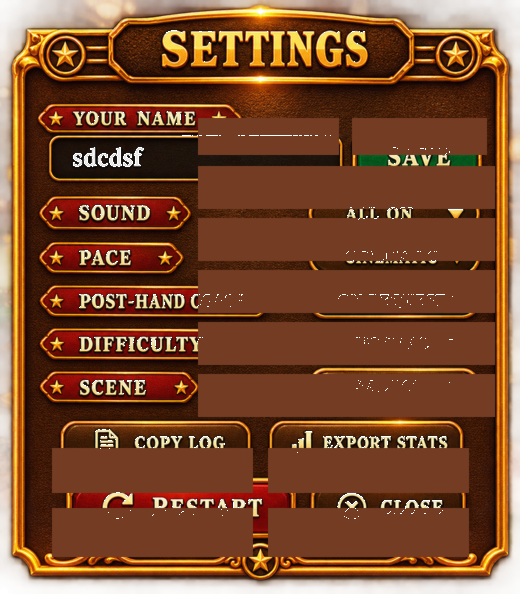
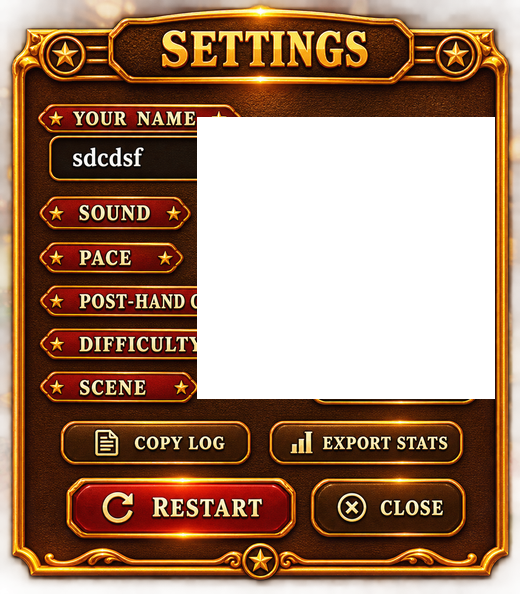
Fix settings overlay double-draw from opaque shell fill
Rebuild settings-panel art with true alpha cutouts in the right-column
control slots (from settings-panel-full.png) and restore a proper @2x
asset. Tone down the name field chrome and style the settings sheet
scrollbar so live controls no longer stack on brown baked placeholders.

diff --git a/Web/CinematicPoker.Web/wwwroot/css/app.css b/Web/CinematicPoker.Web/wwwroot/css/app.css
@@ -2931,6 +2931,21 @@ html.scene-street.resume-play .boot-screen {
     max-width: none;
     max-height: none;
     -webkit-overflow-scrolling: touch;
+    scrollbar-width: thin;
+    scrollbar-color: rgba(216, 178, 92, 0.45) transparent;
+}
+
+.settings-art-sheet::-webkit-scrollbar {
+    width: 6px;
+}
+
+.settings-art-sheet::-webkit-scrollbar-thumb {
+    background: rgba(216, 178, 92, 0.4);
+    border-radius: 999px;
+}
+
+.settings-art-sheet::-webkit-scrollbar-track {
+    background: transparent;
 }
 
 .settings-art-sheet.settings-box {
@@ -3136,11 +3151,12 @@ html.scene-street.resume-play .boot-screen {
 }
 
 .settings-art-sheet .settings-name-controls .name-input {
-    background: rgba(8, 5, 3, 0.82);
-    border: 1px solid rgba(216, 178, 92, 0.45);
-    border-radius: 10px;
+    background: rgba(8, 5, 3, 0.72);
+    border: 1px solid rgba(216, 178, 92, 0.5);
+    border-radius: 8px;
     color: var(--text);
     font-size: 14px;
+    box-shadow: none;
 }
 
 .settings-art-sheet .settings-save {

diff --git a/Web/CinematicPoker.Web/wwwroot/index.html b/Web/CinematicPoker.Web/wwwroot/index.html
@@ -25,7 +25,7 @@
          vendored in fonts/ so the game needs no network at all — the
          @font-face declarations live at the top of css/app.css. -->
     <link rel="preload" href="fonts/rye-latin.woff2" as="font" type="font/woff2" crossorigin />
-    <link rel="stylesheet" href="css/app.css?v=84" />
+    <link rel="stylesheet" href="css/app.css?v=86" />
     <script>
         // iOS reports the landscape notch inset on both sides. The housing
         // is only on one edge: window.orientation 90 puts it on the left,

diff --git a/tools/build_settings_panel_shell.py b/tools/build_settings_panel_shell.py
@@ -1,0 +1,64 @@
+#!/usr/bin/env python3
+"""Build settings-panel.png shell from the full mock (labels + footer art only).
+
+Control slots on the right are punched transparent so live HTML inputs and
+dropdown pills are not doubled over baked art.
+"""
+from __future__ import annotations
+
+import sys
+from pathlib import Path
+
+from PIL import Image
+
+ROOT = Path(__file__).resolve().parents[1]
+IMG = ROOT / "Web/CinematicPoker.Web/wwwroot/img"
+FULL = IMG / "settings-panel-full.png"
+
+# Normalized (x0, y0, x1, y1) — right-column interactive rows only; footer stays painted.
+CUTOUTS = (
+    (0.380, 0.198, 0.952, 0.292),
+    (0.380, 0.292, 0.952, 0.368),
+    (0.380, 0.368, 0.952, 0.444),
+    (0.380, 0.444, 0.952, 0.520),
+    (0.380, 0.520, 0.952, 0.596),
+    (0.380, 0.596, 0.952, 0.672),
+)
+
+
+def punch_shell(width: int) -> Image.Image:
+    height = round(width * 594 / 520)
+    base = Image.open(FULL).convert("RGBA")
+    im = base.resize((width, height), Image.Resampling.LANCZOS)
+    pix = im.load()
+    w, h = im.size
+    for x0, y0, x1, y1 in CUTOUTS:
+        ix0, iy0 = int(x0 * w), int(y0 * h)
+        ix1, iy1 = int(x1 * w), int(y1 * h)
+        for y in range(iy0, min(iy1, h)):
+            for x in range(ix0, min(ix1, w)):
+                r, g, b, a = pix[x, y]
+                if a:
+                    pix[x, y] = (r, g, b, 0)
+    return im
+
+
+def main() -> int:
+    if not FULL.is_file():
+        print(f"missing {FULL}", file=sys.stderr)
+        return 1
+    one_x = punch_shell(520)
+    two_x = punch_shell(1040)
+    out1 = IMG / "settings-panel.png"
+    out2 = IMG / "settings-panel@2x.png"
+    shell_copy = IMG / "settings-panel-shell-full.png"
+    one_x.save(out1, optimize=True)
+    two_x.save(out2, optimize=True)
+    one_x.save(shell_copy, optimize=True)
+    print(f"wrote {out1} ({one_x.size[0]}x{one_x.size[1]})")
+    print(f"wrote {out2} ({two_x.size[0]}x{two_x.size[1]})")
+    return 0
+
+
+if __name__ == "__main__":
+    raise SystemExit(main())
